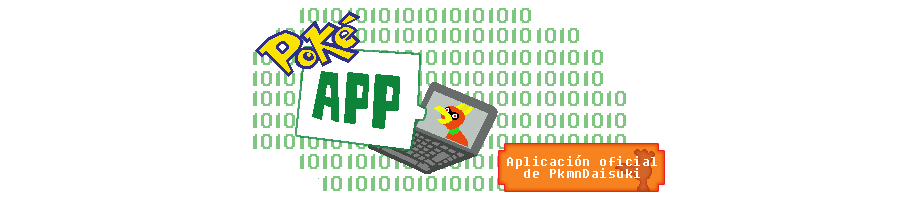
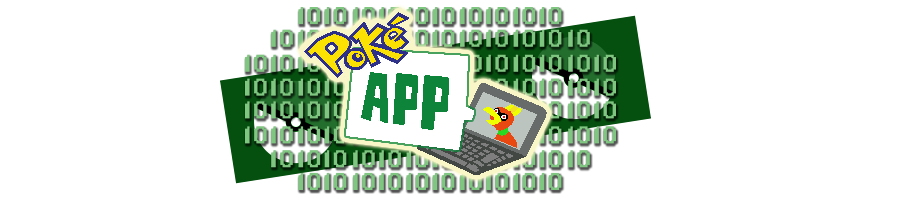
New changes on GUI
1- Coin slider of home page (and fixing GUI on all the section).
2- New button in nav for "Pokémon Deathmatch" tournament
3- New header.

A lot of love.

diff --git a/css/coin-slider-styles.css b/css/coin-slider-styles.css
@@ -3,22 +3,20 @@
 	http://workshop.rs/projects/coin-slider
 */
 
-
+#coin-slider { margin-left: auto; margin-right: auto; -webkit-border-radius: 10px; -moz-border-radius: 10px; border-radius: 10px; -webkit-border: 10px solid #0E843B; -moz-border: 10px solid #0E843B; border: 10px solid #0E843B; }
 .coin-slider { overflow: hidden; zoom: 1; position: relative; z-index: 100; }
-.coin-slider a{ text-decoration: none; outline: none; border: none; }
+.coin-slider a { text-decoration: none; outline: none; border: none; }
 
 .cs-buttons { font-size: 0px; padding: 10px; float: left; }
-.cs-buttons a { margin-left: 5px; height: 10px; width: 10px; float: left; border: 1px solid #B8C4CF; color: #B8C4CF; text-indent: -1000px; -webkit-border-radius: 10px; -moz-border-radius: 10px; border-radius: 10px; }
-.cs-active { background-color: #B8C4CF; color: #FFFFFF; }
+.cs-buttons a { margin-left: 5px; height: 10px; width: 10px; float: left; border: 3px solid #0E843B; color: #B8C4CF; text-indent: -1000px; -webkit-border-radius: 10px; -moz-border-radius: 10px; border-radius: 10px; }
+.cs-active { background-color: #0E843B; color: #FFFFFF; }
 
-.cs-title { width: 750px; padding: 10px; background-color: #000000; color: #FFFFFF; }
+.cs-title { width: 750px; padding: 10px; background-color: #020A05; color: #FFFFFF; font-weight: bold; opacity: 0.9}
 
-.cs-prev, 
-.cs-next { background-color: #000000; color: #FFFFFF; padding: 0px 10px; }
+.cs-prev, .cs-next { background-color: #000000; color: #FFFFFF; padding: 0px 10px; }
 
 .video-slider { font-family: "Trebuchet MS",Arial,Helvetica,sans-serif; width: 210px; height: 355px; float: left; }
 .video-slider .box { width: 170px; height: 115px; padding: 5px; background-color: #FFF; margin-bottom: 0px; margin-left: auto; margin-right: auto; }
 .video-slider .box .video { width: 170px; height: 100px; margin-left: auto; margin-right: auto; }
 .video-slider .box .video img { width: 170px; height: 100px; }
 .video-slider .box p { font-size: 14px; font-weight: bold; color: #D17800; text-align: center; }
-

diff --git a/css/style.css b/css/style.css
@@ -1,6 +1,6 @@
 h1.autor, h1.stats, h1.captura, h1.pokeapp, h1.art_daisuki, h1.jugadores,
 h1.crearpj, h1.buscarpj, h1.codmod, h1.modpj, h1.re_pokecalc, h1.torneos,
-h1.registro, h1.usuario, h1.login, h1.nuevopkmn {
+h1.registro, h1.usuario, h1.login, h1.nuevopkmn, h1.index {
 	text-indent: -9000px;
 	width: 800px;
 	height: 70px;
@@ -68,6 +68,12 @@ h1.login {
 
 h1.nuevopkmn {
 	background-image: url(../images/titles/nuevopkmn_title.png);
+}
+
+h1.index {
+	margin-left: auto;
+	margin-right: auto;
+	background-image: url(../images/titles/index_title.png);
 }
 
 

diff --git a/css/main.css b/css/main.css
@@ -22,7 +22,7 @@ div {
 	margin-left: auto;
 	margin-right: auto;
 	padding: 0;
-	height: 200px;
+	height: auto;
 }
 
 #content {
@@ -78,7 +78,7 @@ u.dotted {
 	background: #FFFFFF;
 	margin-left: auto;
     margin-right: auto;
-    width: 90%;
+    width: 95%;
 }
 
 #mainmenu ul {
@@ -95,7 +95,7 @@ u.dotted {
 	background-color: transparent;
 	font-size: 12px;
 	text-decoration: none;
-	padding: 5px 8px;
+	padding: 0px;
 }
 
 #mainmenu ul li a:hover, #mainmenu ul li.active a {

diff --git a/protected/views/site/index.php b/protected/views/site/index.php
@@ -11,33 +11,29 @@
 	<?php echo CHtml::link('Autorizar jugadores', array('jugadores/authorize')) ?>
 <?php endif; ?>
 
-<div class="page-header">   <h1>Pokéapp </h1></div>
-<p> 
-	La pokéapp es un compilado de aplicaciones hechas por <?php echo CHtml::link('un fan', array('/sobre_mi')) ?> de pokémon y pensada para otros fans. 
-	Las aplicaciones las hice pensando en algo que me fuese a servir a mi en el juego así que espero que a ustedes también les sean útiles.
-</p> 
+<div class="infosec">
+	<h1 class="index">Pokéapp </h1>
+	<p>La Pokéapp es un compilado de aplicaciones hechas por <?php echo CHtml::link('un fan', array('/sobre_mi')) ?> de pokémon y pensada para otros fans. 
+		Estas fueron hechas pensando en algo que me fuese a servir a mí en el juego así que espero que a ustedes también les sean útiles.</p> 
+	<p>Las aplicaciones que componen a la Pokéapp son las siguientes: </p>
 
-<p> 
-	Las aplicaciones que componen a la pokéapp son las siguientes: 
-</p>
-
-
-<div id='coin-slider'>
-<?php foreach ($items_slider as $item_slider): ?>
-	<?php for($i = 1 ; $i < $item_slider['items']+1 ; $i = $i +1 ): ?>
-			<a href="<?php echo $item_slider['link'] ?>" target="_blank">
-				<img src="<?php echo Yii::app()->baseUrl ?>/images/carrousel/<?php echo $item_slider['image'].$i ?>.png" alt="<?php echo $item_slider['title'] ?>" />
-				<span>
-					<b> <?php echo $item_slider['title'] ?> </b><br />
-					<?php echo $item_slider['caption'] ?> 
-				</span>
-			</a>
-	<?php endfor; ?>
-<?php endforeach; ?>
+	<div id='coin-slider'>
+	<?php foreach ($items_slider as $item_slider): ?>
+		<?php for($i = 1 ; $i < $item_slider['items']+1 ; $i = $i +1 ): ?>
+				<a href="<?php echo $item_slider['link'] ?>" target="_blank">
+					<img src="<?php echo Yii::app()->baseUrl ?>/images/carrousel/<?php echo $item_slider['image'].$i ?>.png" alt="<?php echo $item_slider['title'] ?>" />
+					<span>
+						<b> <?php echo $item_slider['title'] ?> </b><br />
+						<?php echo $item_slider['caption'] ?> 
+					</span>
+				</a>
+		<?php endfor; ?>
+	<?php endforeach; ?>
+	</div>
 </div>
 
 <script type="text/javascript">
 	$(document).ready(function() {
-		$('#coin-slider').coinslider({width: 750, height: 400, navigation: true, delay: 5000, hoverPause:true , links:true, sDelay: 30, spw: 7, sph: 5});
+		$('#coin-slider').coinslider({width: 750, height: 400, navigation: true, delay: 5000, hoverPause: true , links: true, sDelay: 30, spw: 7, sph: 5});
 	});
 </script> <!-- end of coinslider -->

diff --git a/protected/views/layouts/main.php b/protected/views/layouts/main.php
@@ -50,6 +50,7 @@
 				<li><?php echo CHtml::link('<img src="'.Yii::app()->request->baseUrl.'/images/nav/pokecalc.png" width="220" height="100" />',  Yii::app()->createurl('/pokeball')) ?> </li>
 				<li><?php echo CHtml::link('<img src="'.Yii::app()->request->baseUrl.'/images/nav/stats.png" width="220" height="100" />',  Yii::app()->createurl('/stats'))?> </li>
 				<!-- <li><?php //echo CHtml::link('<img src="'.Yii::app()->request->baseUrl.'/images/nav/jugadores.png" width="220" height="100" />', array('/jugadores')) ?></li> -->
+				<li><?php echo CHtml::link('<img src="'.Yii::app()->request->baseUrl.'/images/nav/deathmatch.png" width="220" height="100" />', array('/torneo')) ?></li>
 				<li><?php echo CHtml::link('<img src="'.Yii::app()->request->baseUrl.'/images/nav/autor.png" width="220" height="100" />', array('/sobre_mi')) ?></li>
 			</ul>
 		</nav>
